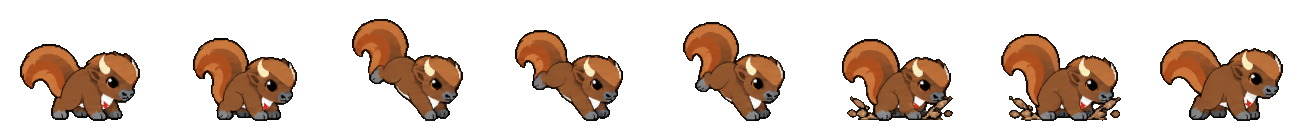
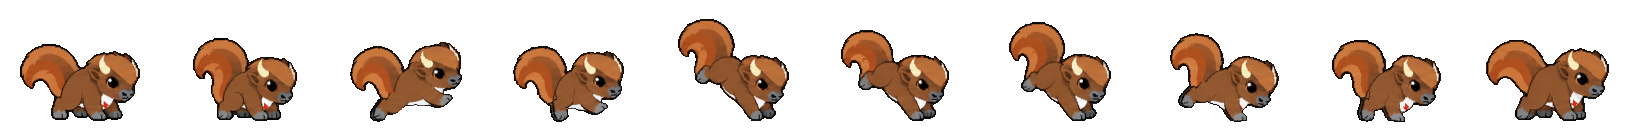
Sofia: bound run, buffalo walk, paddle swim, jump with crouch

diff --git a/src/actors.js b/src/actors.js
@@ -12,8 +12,8 @@
 // take too (walking, jumping, dropping, swimming, doors), leading the way. At the last waiting point it waits for the player once more and
 // reveals the exit door.
 
-import { TILE } from './data/levels.js?v=6143082';
-import { texKey } from './data/artsets.js?v=6143082';
+import { TILE } from './data/levels.js?v=a63aaf0';
+import { texKey } from './data/artsets.js?v=a63aaf0';
 
 // Zebonky art comes from the level's art set, or this one when the level
 // has none (the rainforest set is the only one with a Zebonky so far).
@@ -96,6 +96,14 @@ export function ensureAnims(scene, art) {
     if (a.level) make(`${key}-level`, a.level, 0);
   });
 }
+
+// How long a Zebonky crouches on the ground before it leaps, ms: its jump's
+// `ground` frames (Sofia, the user, 2026-10-27: "hold her on the ground for
+// the crouch frames in the game too, then leap"). 0 when it has none.
+export const crouchTime = (art) => {
+  const a = art && art.z.anims.jump;
+  return a && a.ground ? ((a.ground[1] - a.ground[0] + 1) / (a.fps || ANIM_RATES.jump || 10)) * 1000 : 0;
+};
 
 // Plays anim on a Zebonky: the last one's end first if it has one, then
 // this one's start if it has one, then its loop.
@@ -306,9 +314,20 @@ export class WildZebonky {
     return false;
   }
 
+  // Crouches first if its jump has crouch frames, standing still, then
+  // leaps with the speed it had.
   leap() {
-    this.sprite.setVelocityY(-LEAP_SPEED);
-    play(this.sprite, this.art, 'jump');
+    const s = this.sprite;
+    play(s, this.art, 'jump');
+    const wait = crouchTime(this.art);
+    if (!wait) {
+      s.setVelocityY(-LEAP_SPEED);
+      return;
+    }
+    const vx = s.body.velocity.x;
+    s.setVelocityX(0);
+    this.crouchUntil = this.scene.time.now + wait;
+    this.scene.time.delayedCall(wait, () => { if (s.active) s.setVelocity(vx, -LEAP_SPEED); });
   }
 
   // Walk or run one way. `canLeap` lets it jump gaps and low ledges; without
@@ -353,6 +372,11 @@ export class WildZebonky {
     // bank stops it sideways) until it's up and over.
     if (time < (this.leapingUntil || 0)) {
       s.setVelocityX(this.dir * 180);
+      return;
+    }
+    // Crouching before a leap: still until it springs.
+    if (time < (this.crouchUntil || 0)) {
+      s.setVelocityX(0);
       return;
     }
     // In water: float up and paddle for the shore.
@@ -632,11 +656,14 @@ export class GuideZebonky {
       }
       play(s, this.art, h.type === 'run' ? 'run' : h.type === 'swim' ? (this.art.z.anims.swim ? 'swim' : 'walk') : 'jump');
       const p = { t: 0 };
+      // A jump starts with its crouch, on the spot.
+      const crouch = h.type === 'jump' ? crouchTime(this.art) : 0;
       // swimming is slower; the uphill waterfall carries it up fast
       const speed = h.type === 'swim' ? GUIDE_SPEED * 0.55 : h.type === 'ride' ? 640 : GUIDE_SPEED;
       this.scene.tweens.add({
         targets: p,
         t: 1,
+        delay: crouch,
         duration: Math.max(h.lift ? 260 : 120, (Math.hypot(h.x1 - h.x0, h.y1 - h.y0) / speed) * 1000),
         onUpdate: () => {
           s.x = h.x0 + (h.x1 - h.x0) * p.t;

diff --git a/src/data/questions.js b/src/data/questions.js
@@ -15,23 +15,23 @@
 
 // This is the Explorer bank. Junior Explorer and Pioneer have their own
 // (questions_junior.js, questions_pioneer.js), copies of this one for now.
-import { JUNIOR_QUESTIONS } from './questions_junior.js?v=6143082';
-import { PIONEER_QUESTIONS } from './questions_pioneer.js?v=6143082';
-import dorsalJunior from './questions/dorsal_junior.js?v=6143082';
-import dorsalExplorer from './questions/dorsal_explorer.js?v=6143082';
-import dorsalPioneer from './questions/dorsal_pioneer.js?v=6143082';
-import cumulusJunior from './questions/cumulus_junior.js?v=6143082';
-import cumulusExplorer from './questions/cumulus_explorer.js?v=6143082';
-import cumulusPioneer from './questions/cumulus_pioneer.js?v=6143082';
-import squvannahsJunior from './questions/squvannahs_junior.js?v=6143082';
-import squvannahsExplorer from './questions/squvannahs_explorer.js?v=6143082';
-import squvannahsPioneer from './questions/squvannahs_pioneer.js?v=6143082';
-import seafoamJunior from './questions/seafoam_junior.js?v=6143082';
-import seafoamExplorer from './questions/seafoam_explorer.js?v=6143082';
-import seafoamPioneer from './questions/seafoam_pioneer.js?v=6143082';
-import magentaJunior from './questions/magenta_junior.js?v=6143082';
-import magentaExplorer from './questions/magenta_explorer.js?v=6143082';
-import magentaPioneer from './questions/magenta_pioneer.js?v=6143082';
+import { JUNIOR_QUESTIONS } from './questions_junior.js?v=a63aaf0';
+import { PIONEER_QUESTIONS } from './questions_pioneer.js?v=a63aaf0';
+import dorsalJunior from './questions/dorsal_junior.js?v=a63aaf0';
+import dorsalExplorer from './questions/dorsal_explorer.js?v=a63aaf0';
+import dorsalPioneer from './questions/dorsal_pioneer.js?v=a63aaf0';
+import cumulusJunior from './questions/cumulus_junior.js?v=a63aaf0';
+import cumulusExplorer from './questions/cumulus_explorer.js?v=a63aaf0';
+import cumulusPioneer from './questions/cumulus_pioneer.js?v=a63aaf0';
+import squvannahsJunior from './questions/squvannahs_junior.js?v=a63aaf0';
+import squvannahsExplorer from './questions/squvannahs_explorer.js?v=a63aaf0';
+import squvannahsPioneer from './questions/squvannahs_pioneer.js?v=a63aaf0';
+import seafoamJunior from './questions/seafoam_junior.js?v=a63aaf0';
+import seafoamExplorer from './questions/seafoam_explorer.js?v=a63aaf0';
+import seafoamPioneer from './questions/seafoam_pioneer.js?v=a63aaf0';
+import magentaJunior from './questions/magenta_junior.js?v=a63aaf0';
+import magentaExplorer from './questions/magenta_explorer.js?v=a63aaf0';
+import magentaPioneer from './questions/magenta_pioneer.js?v=a63aaf0';
 
 export const QUESTIONS = {
   dorsal: [

diff --git a/src/scenes/Platformer.js b/src/scenes/Platformer.js
@@ -2,17 +2,17 @@
 // from assets/svg/. Uses the level contract in levelApi.js, so the map,
 // quiz and save flow all work exactly as they will in the finished game.
 
-import { LEVELS, MAP_W, MAP_H } from '../data/world.js?v=6143082';
-import { TILE, layoutFor } from '../data/levels.js?v=6143082';
-import { state } from '../state.js?v=6143082';
-import { COLORS, heading, text } from '../theme.js?v=6143082';
-import { startQuiz, finishLevel, leaveLevel } from '../levelApi.js?v=6143082';
-import { TERRAIN_SETS, texKey, pick, tileHash, solidRole, roleFiles, platformRole, BLOCKS, BLOCK_COLORS, BLOCKS_SKY } from '../data/artsets.js?v=6143082';
-import { WildZebonky, GuideZebonky, zebonkyArt, ensureAnims } from '../actors.js?v=6143082';
-import { makeNav } from '../pathing.js?v=6143082';
-import { startQuestionRun } from '../data/questions.js?v=6143082';
-import { audio, musicButton, soundButton } from '../audio.js?v=6143082';
-import { Companion } from '../companion.js?v=6143082';
+import { LEVELS, MAP_W, MAP_H } from '../data/world.js?v=a63aaf0';
+import { TILE, layoutFor } from '../data/levels.js?v=a63aaf0';
+import { state } from '../state.js?v=a63aaf0';
+import { COLORS, heading, text } from '../theme.js?v=a63aaf0';
+import { startQuiz, finishLevel, leaveLevel } from '../levelApi.js?v=a63aaf0';
+import { TERRAIN_SETS, texKey, pick, tileHash, solidRole, roleFiles, platformRole, BLOCKS, BLOCK_COLORS, BLOCKS_SKY } from '../data/artsets.js?v=a63aaf0';
+import { WildZebonky, GuideZebonky, zebonkyArt, ensureAnims } from '../actors.js?v=a63aaf0';
+import { makeNav } from '../pathing.js?v=a63aaf0';
+import { startQuestionRun } from '../data/questions.js?v=a63aaf0';
+import { audio, musicButton, soundButton } from '../audio.js?v=a63aaf0';
+import { Companion } from '../companion.js?v=a63aaf0';
 
 // Walking (the user, 2026-10-25): she builds up to speed instead of
 // starting at full speed, and letting go she slides a little before

diff --git a/src/companion.js b/src/companion.js
@@ -8,9 +8,9 @@
 // A new companion sparkles and fades in beside her; one she already has is
 // simply there when the level starts.
 
-import { BIOMES } from './data/world.js?v=6143082';
-import { ARTSETS, texKey } from './data/artsets.js?v=6143082';
-import { zebonkyArt, ensureAnims, faceArt, play, standOnFeet } from './actors.js?v=6143082';
+import { BIOMES } from './data/world.js?v=a63aaf0';
+import { ARTSETS, texKey } from './data/artsets.js?v=a63aaf0';
+import { zebonkyArt, ensureAnims, faceArt, play, standOnFeet, crouchTime } from './actors.js?v=a63aaf0';
 
 const TILE = 64;
 const SIZE = 64;           // px tall on screen (the picture)
@@ -169,6 +169,11 @@ export class Companion {
     }
     if (onFloor) {
       this.dive = null;
+      // Crouching before a hop: still until it springs.
+      if (scene.time.now < (this.crouchUntil || 0)) {
+        s.setVelocityX(0);
+        return;
+      }
       // Water just ahead, off this bank: a little leap, diving in.
       if (dir && art.z.anims.dive && scene.isWaterAt(s.x + dir * TILE * 0.7, s.y + 8)
         && !scene.isWaterAt(s.x, s.y + 8)) {
@@ -181,8 +186,16 @@ export class Companion {
       }
       // A step in the way, or she's well above it: hop.
       if ((vx < 0 && s.body.blocked.left) || (vx > 0 && s.body.blocked.right) || p.y < s.y - TILE * 1.2) {
-        s.setVelocityY(-HOP);
         play(s, art, 'jump');
+        // Its crouch on the ground first (Sofia), then the hop.
+        const wait = crouchTime(art);
+        if (!wait) {
+          s.setVelocityY(-HOP);
+          return;
+        }
+        s.setVelocityX(0);
+        this.crouchUntil = scene.time.now + wait;
+        scene.time.delayedCall(wait, () => { if (s.active) s.setVelocity(vx, -HOP); });
         return;
       }
       // Following her it rolls (the user, 2026-10-26: "My shaan should be

diff --git a/src/main.js b/src/main.js
@@ -1,14 +1,14 @@
-import { MAP_W, MAP_H } from './data/world.js?v=6143082';
-import { state } from './state.js?v=6143082';
-import { audio } from './audio.js?v=6143082';
-import { BootScene } from './scenes/Boot.js?v=6143082';
-import { OverworldScene } from './scenes/Overworld.js?v=6143082';
-import { PlatformerScene } from './scenes/Platformer.js?v=6143082';
-import { QuizScene } from './scenes/Quiz.js?v=6143082';
-import { BonusScene } from './scenes/Bonus.js?v=6143082';
-import { SaveMenuScene } from './scenes/SaveMenu.js?v=6143082';
-import { CharacterMenuScene } from './scenes/CharacterMenu.js?v=6143082';
-import { takeLinkSave } from './savecode.js?v=6143082';
+import { MAP_W, MAP_H } from './data/world.js?v=a63aaf0';
+import { state } from './state.js?v=a63aaf0';
+import { audio } from './audio.js?v=a63aaf0';
+import { BootScene } from './scenes/Boot.js?v=a63aaf0';
+import { OverworldScene } from './scenes/Overworld.js?v=a63aaf0';
+import { PlatformerScene } from './scenes/Platformer.js?v=a63aaf0';
+import { QuizScene } from './scenes/Quiz.js?v=a63aaf0';
+import { BonusScene } from './scenes/Bonus.js?v=a63aaf0';
+import { SaveMenuScene } from './scenes/SaveMenu.js?v=a63aaf0';
+import { CharacterMenuScene } from './scenes/CharacterMenu.js?v=a63aaf0';
+import { takeLinkSave } from './savecode.js?v=a63aaf0';
 
 state.load();
 // Opened from a save link: the map asks before loading it.

diff --git a/src/scenes/Overworld.js b/src/scenes/Overworld.js
@@ -7,13 +7,13 @@
 // was answered (or a note says that's what earns it). A biome finished
 // before has an extra dot that leads back out to the whole map.
 
-import { LEVELS, PATHS, MAP_W, MAP_H, BIOMES, PLAY_BIOMES, biomeLevels } from '../data/world.js?v=6143082';
-import { state, pathKey } from '../state.js?v=6143082';
-import { COLORS, heading, text, makeButton } from '../theme.js?v=6143082';
-import { audio } from '../audio.js?v=6143082';
-import { starsFor, rewardTotals } from '../rewards.js?v=6143082';
-import { showCompanionCard } from '../companionCard.js?v=6143082';
-import { showDifficultyMenu } from '../difficultyMenu.js?v=6143082';
+import { LEVELS, PATHS, MAP_W, MAP_H, BIOMES, PLAY_BIOMES, biomeLevels } from '../data/world.js?v=a63aaf0';
+import { state, pathKey } from '../state.js?v=a63aaf0';
+import { COLORS, heading, text, makeButton } from '../theme.js?v=a63aaf0';
+import { audio } from '../audio.js?v=a63aaf0';
+import { starsFor, rewardTotals } from '../rewards.js?v=a63aaf0';
+import { showCompanionCard } from '../companionCard.js?v=a63aaf0';
+import { showDifficultyMenu } from '../difficultyMenu.js?v=a63aaf0';
 
 const WALK_SPEED = 280;     // map px per second
 const DOT_SPACING = 18;     // px between paw prints on a path

diff --git a/designer/designer.js b/designer/designer.js
@@ -1,10 +1,10 @@
-import { TILE_PX, TERRAIN, MARKERS, DOOR, WAIT, CRATES } from './legend.js?v=6143082';
-import { readDrawing } from './read-drawing.js?v=6143082';
-import { ARTSETS, BLOCKS } from '../src/data/artsets.js?v=6143082';
-import { LEVELS } from '../src/data/world.js?v=6143082';
-import { TEST_LAYOUT_KEY } from '../src/data/levels.js?v=6143082';
-import { backgroundGuide, tileSheet, svgToImage } from './guides.js?v=6143082';
-import { readArtistFiles } from './artist.js?v=6143082';
+import { TILE_PX, TERRAIN, MARKERS, DOOR, WAIT, CRATES } from './legend.js?v=a63aaf0';
+import { readDrawing } from './read-drawing.js?v=a63aaf0';
+import { ARTSETS, BLOCKS } from '../src/data/artsets.js?v=a63aaf0';
+import { LEVELS } from '../src/data/world.js?v=a63aaf0';
+import { TEST_LAYOUT_KEY } from '../src/data/levels.js?v=a63aaf0';
+import { backgroundGuide, tileSheet, svgToImage } from './guides.js?v=a63aaf0';
+import { readArtistFiles } from './artist.js?v=a63aaf0';
 
 const $ = (id) => document.getElementById(id);
 const PREVIEW_SCALE = 0.4;   // 64 px tile -> about 26 px on screen

diff --git a/src/scenes/CharacterMenu.js b/src/scenes/CharacterMenu.js
@@ -5,12 +5,12 @@
 // so far, the rest are ready for layered art (hair, hat, outfit, shoes) and
 // say "Soon". The stand-ins carry a note that they are temporary.
 
-import { MAP_W, MAP_H } from '../data/world.js?v=6143082';
-import { state } from '../state.js?v=6143082';
-import { COLORS, heading, text, makeButton } from '../theme.js?v=6143082';
-import { CHARACTERS, LOOK_SLOTS, STANDIN_NOTE } from '../data/characters.js?v=6143082';
-import { audio } from '../audio.js?v=6143082';
-import { companionGrid } from '../companionPicker.js?v=6143082';
+import { MAP_W, MAP_H } from '../data/world.js?v=a63aaf0';
+import { state } from '../state.js?v=a63aaf0';
+import { COLORS, heading, text, makeButton } from '../theme.js?v=a63aaf0';
+import { CHARACTERS, LOOK_SLOTS, STANDIN_NOTE } from '../data/characters.js?v=a63aaf0';
+import { audio } from '../audio.js?v=a63aaf0';
+import { companionGrid } from '../companionPicker.js?v=a63aaf0';
 
 const CARD_W = 980;
 const CARD_H = 640;

diff --git a/src/scenes/Quiz.js b/src/scenes/Quiz.js
@@ -2,12 +2,12 @@
 // A wrong answer fades out and pops up the hint, and the child tries again
 // until they find it. The right answer saves the treasure.
 
-import { LEVELS, MAP_W, MAP_H } from '../data/world.js?v=6143082';
-import { drawQuestion } from '../data/questions.js?v=6143082';
-import { state } from '../state.js?v=6143082';
-import { COLORS, heading, text, makeButton } from '../theme.js?v=6143082';
-import { audio } from '../audio.js?v=6143082';
-import { showCompanionCard } from '../companionCard.js?v=6143082';
+import { LEVELS, MAP_W, MAP_H } from '../data/world.js?v=a63aaf0';
+import { drawQuestion } from '../data/questions.js?v=a63aaf0';
+import { state } from '../state.js?v=a63aaf0';
+import { COLORS, heading, text, makeButton } from '../theme.js?v=a63aaf0';
+import { audio } from '../audio.js?v=a63aaf0';
+import { showCompanionCard } from '../companionCard.js?v=a63aaf0';
 
 const LETTERS = ['A', 'B', 'C', 'D'];
 

diff --git a/src/state.js b/src/state.js
@@ -2,10 +2,10 @@
 // Storage can be missing or blocked (private windows, previews), so every
 // read and write is guarded and the game still runs without it.
 
-import { LEVELS, PATHS, START_NODE, PLAY_BIOMES, biomeLevels } from './data/world.js?v=6143082';
-import { DEFAULT_DIFFICULTY, difficultyById } from './data/difficulty.js?v=6143082';
-import { DEFAULT_CHARACTER, characterById } from './data/characters.js?v=6143082';
-import { bankFor, questionKey } from './data/questions.js?v=6143082';
+import { LEVELS, PATHS, START_NODE, PLAY_BIOMES, biomeLevels } from './data/world.js?v=a63aaf0';
+import { DEFAULT_DIFFICULTY, difficultyById } from './data/difficulty.js?v=a63aaf0';
+import { DEFAULT_CHARACTER, characterById } from './data/characters.js?v=a63aaf0';
+import { bankFor, questionKey } from './data/questions.js?v=a63aaf0';
 
 const KEY = 'zebonky-tms-save-v1';
 

diff --git a/src/scenes/Boot.js b/src/scenes/Boot.js
@@ -1,9 +1,9 @@
-import { ARTSETS, texKey } from '../data/artsets.js?v=6143082';
-import { testParams, DRAWN } from '../data/levels.js?v=6143082';
-import { playableLevelId, BIOMES, MAP_W, MAP_H } from '../data/world.js?v=6143082';
-import { CHARACTERS } from '../data/characters.js?v=6143082';
-import { state } from '../state.js?v=6143082';
-import { COLORS, heading, text } from '../theme.js?v=6143082';
+import { ARTSETS, texKey } from '../data/artsets.js?v=a63aaf0';
+import { testParams, DRAWN } from '../data/levels.js?v=a63aaf0';
+import { playableLevelId, BIOMES, MAP_W, MAP_H } from '../data/world.js?v=a63aaf0';
+import { CHARACTERS } from '../data/characters.js?v=a63aaf0';
+import { state } from '../state.js?v=a63aaf0';
+import { COLORS, heading, text } from '../theme.js?v=a63aaf0';
 
 export class BootScene extends Phaser.Scene {
   constructor() {

diff --git a/src/difficultyMenu.js b/src/difficultyMenu.js
@@ -4,11 +4,11 @@
 // (data/difficulty.js `about`). "Play this way" chooses it; Done or Escape
 // closes the screen.
 
-import { MAP_W, MAP_H } from './data/world.js?v=6143082';
-import { DIFFICULTIES } from './data/difficulty.js?v=6143082';
-import { state } from './state.js?v=6143082';
-import { COLORS, heading, text, makeButton } from './theme.js?v=6143082';
-import { audio } from './audio.js?v=6143082';
+import { MAP_W, MAP_H } from './data/world.js?v=a63aaf0';
+import { DIFFICULTIES } from './data/difficulty.js?v=a63aaf0';
+import { state } from './state.js?v=a63aaf0';
+import { COLORS, heading, text, makeButton } from './theme.js?v=a63aaf0';
+import { audio } from './audio.js?v=a63aaf0';
 
 export function showDifficultyMenu(scene, onClose) {
   const layer = scene.add.container(0, 0).setDepth(60);
